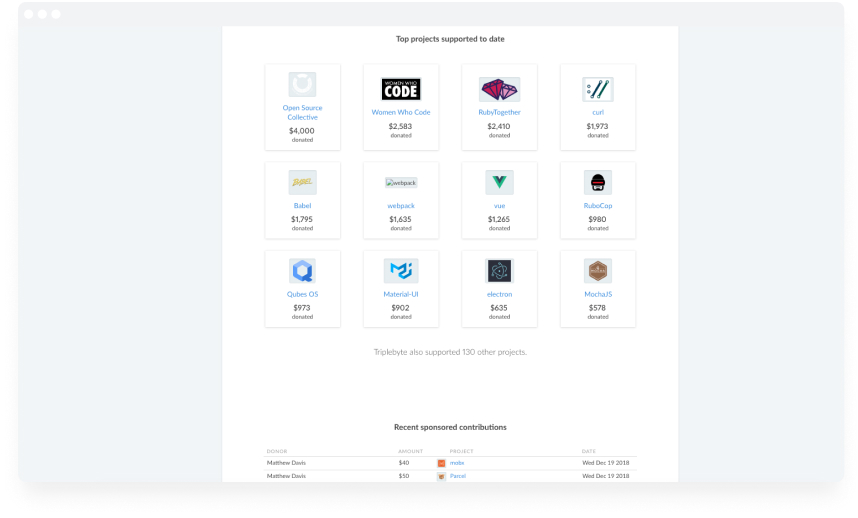
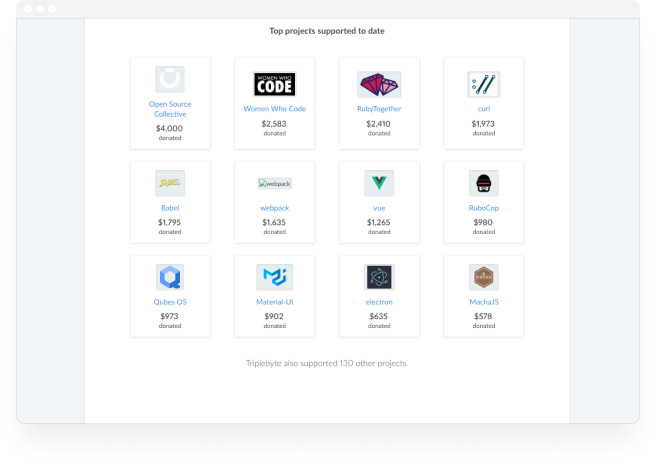
:bento: update gift-cards' features images - update graphics to be smaller so it does not reach out the browser's   edge - update col size so images take 1 more col than the texts - update mobile images

diff --git a/src/static/gift-cards-page/index.html b/src/static/gift-cards-page/index.html
@@ -50,52 +50,46 @@
   <section class='features'>
     <section class='wrapper'>
       <div class='md-flex items-center'>
-        <div class='md-col-6 pb4 md-pb0'>
+        <div class='md-col-5 pb4 md-pb0'>
           <h1 class='h600 -font-extra-bold neutralsolid900 pb4'>Let us take care of everything for you.</h1>
           <p class='neutralsolid700'>Just add a list of emails and we’ll contact them with their redeem codes. You’ll be able to add a personal message to the emails being sent.</p>
         </div>
         <div class='md-col-1'></div>
-        <div class='md-col-5 center md-flex'>
-          <div class='shrink-0'>
-            <picture>
-              <img alt='edit organization' class='mobile-show' src='images/phone-send-cards.jpg'>
-              <img alt='edit organization' class='mobile-hide' src='images/triplebyte-edit-organization.jpg'>
-            </picture>
-          </div>
+        <div class='md-col-6 center md-flex'>
+          <picture>
+            <img alt='edit organization' class='mobile-show' src='images/phone-send-cards.jpg'>
+            <img alt='edit organization' class='mobile-hide' src='images/triplebyte-edit-organization.jpg'>
+          </picture>
         </div>
       </div>
     </section>
     <section class='wrapper'>
       <div class='md-flex items-center'>
-        <div class='md-col-6 order-2 pb4 md-pb0'>
+        <div class='md-col-5 order-2 pb4 md-pb0'>
           <h1 class='h600 -font-extra-bold neutralsolid900 pb4'>Do you prefer doing it your way?</h1>
           <p class='neutralsolid700'>Great! Generate the reddem codes on your organization’s profile and use them to send them from your email, print cards, or distribute them in any way you want.</p>
         </div>
-        <div class='md-col-5 center md-flex justify-end'>
-          <div class='shrink-0'>
-            <picture>
-              <img alt='personalized redeem codes' class='mobile-show' src='images/phone-redeem-codes.jpg'>
-              <img alt='personalized redeem codes' class='mobile-hide' src='images/airbnb-edit-organization.jpg'>
-            </picture>
-          </div>
+        <div class='md-col-6 center md-flex justify-end'>
+          <picture>
+            <img alt='personalized redeem codes' class='mobile-show' src='images/phone-redeem-codes.jpg'>
+            <img alt='personalized redeem codes' class='mobile-hide' src='images/airbnb-edit-organization.jpg'>
+          </picture>
         </div>
         <div class='md-col-1'></div>
       </div>
     </section>
     <section class='wrapper'>
       <div class='md-flex items-center'>
-        <div class='md-col-6 pb4 md-pb0'>
+        <div class='md-col-5 pb4 md-pb0'>
           <h1 class='h600 -font-extra-bold neutralsolid900 pb2'>Would you like to go the extra mile?</h1>
           <p class='neutralsolid700'>No problem! Use our API to generate views for to use in your own website or display them in creative ways.</p>
         </div>
         <div class='md-col-1'></div>
-        <div class='md-col-5 center md-flex'>
-          <div class='shrink-0'>
-            <picture>
-              <img alt='top projects supported to date' class='mobile-show' src='images/phone-redeem-codes.jpg'>
-              <img alt='top projects supported to date' class='mobile-hide' src='images/top-projects.jpg'>
-            </picture>
-          </div>
+        <div class='md-col-6 center md-flex'>
+          <picture>
+            <img alt='api screenshot' class='mobile-show' src='images/phone-api.jpg'>
+            <img alt='top projects supported to date' class='mobile-hide' src='images/top-projects.jpg'>
+          </picture>
         </div>
       </div>
     </section>
